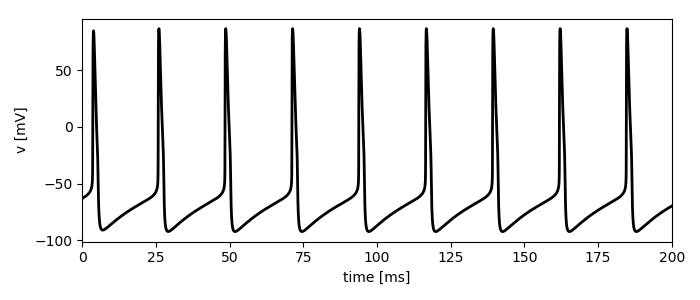
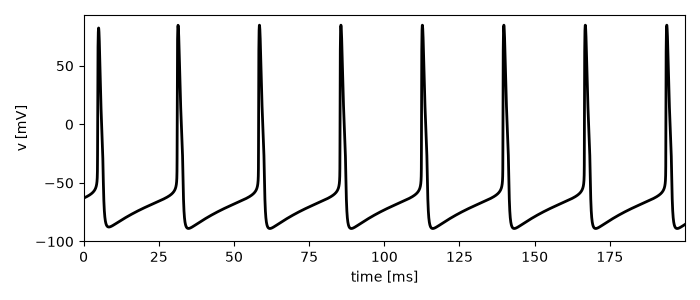
Port ch34 single-neuron sub-examples (Nested Gamma Theta Rhythms) to Brian2
brian/chapter34.ipynb covers PRE_OLM_VOLTAGE_TRACE and OLM_WITH_H_CURRENT
/OLM_WITH_H_AND_A_CURRENTS (one shared OLM-cell model with h/A currents
toggleable via g_h/g_A). A_CURRENT and PRE_OLM_X_INF_TAU_X are static
gating-curve plots -- marked n/a. EIO_1 and the two PING_WITH_THETA_*
sub-examples are much larger 40-50-neuron networks, left for later.

Fixed a real bug found while verifying PRE_OLM_VOLTAGE_TRACE against
MATLAB: python/34.../PRE_OLM_VOLTAGE_TRACE/lib.py's derivative() was
missing the /c division (c=1.3 here, unlike most other chapters where
c=1 makes the same omission invisible) -- caused every spike to arrive
~1.3x too early (9 spikes across 200ms instead of MATLAB's 8).

diff --git a/tests/test_ch34_pre_olm_voltage_trace.py b/tests/test_ch34_pre_olm_voltage_trace.py
@@ -1,0 +1,27 @@
+import sys
+from pathlib import Path
+
+from scipy.integrate import odeint
+
+from matlab_ref import load_python_port, run_matlab_script, trace_rmse
+
+ROOT = Path(__file__).resolve().parents[1]
+PYTHON_DIR = "34_Nested_Gamma_Theta_Rhythms/PRE_OLM_VOLTAGE_TRACE"
+MATLAB_DIR = "34/PRE_OLM_VOLTAGE_TRACE"
+
+
+def test_pre_olm_voltage_trace_matches_matlab():
+    sys.path.insert(0, str(ROOT / "python" / PYTHON_DIR))
+    try:
+        py = load_python_port(ROOT / "python" / PYTHON_DIR / "main.py")
+    finally:
+        sys.path.remove(str(ROOT / "python" / PYTHON_DIR))
+    v0 = -63.0
+    x0 = [v0, py.h_inf(v0), py.n_inf(v0)]
+    t = py.np.arange(0, py.t_final, py.dt)
+    v = odeint(py.derivative, x0, t)[:, 0]
+
+    ref = run_matlab_script(ROOT / "matlab" / MATLAB_DIR, "make_figure.m", ["t", "v"])
+
+    rmse = trace_rmse(ref["t"], ref["v"], t, v)
+    assert rmse < 1.0, f"RMSE vs MATLAB too high: {rmse:.2f} mV"

diff --git a/tests/test_ch34_brian_olm_with_h_current.py b/tests/test_ch34_brian_olm_with_h_current.py
@@ -1,0 +1,23 @@
+from pathlib import Path
+
+import numpy as np
+
+from matlab_ref import load_notebook_as_module, run_matlab_script, spike_times, trace_rmse
+
+ROOT = Path(__file__).resolve().parents[1]
+
+
+def test_olm_with_h_current_matches_matlab():
+    ns = load_notebook_as_module(ROOT / "brian" / "chapter34.ipynb")
+
+    ref = run_matlab_script(
+        ROOT / "matlab" / "34" / "OLM_WITH_H_CURRENT", "make_figure.m", ["t", "v", "r"]
+    )
+
+    rmse_r = trace_rmse(ref["t"], ref["r"], ns.sm_h.t / ns.b2.ms, ns.sm_h.r[0])
+    assert rmse_r < 0.001, f"r RMSE vs MATLAB too high: {rmse_r:.5f}"
+
+    spikes_test = spike_times(ns.sm_h.t / ns.b2.ms, ns.sm_h.vm[0] / ns.b2.mV, threshold=-20)
+    spikes_ref = spike_times(ref["t"], ref["v"], threshold=-20)
+    assert len(spikes_test) == len(spikes_ref) == 10
+    np.testing.assert_allclose(spikes_test, spikes_ref, atol=0.5)

diff --git a/tests/test_ch34_brian_olm_with_h_and_a_currents.py b/tests/test_ch34_brian_olm_with_h_and_a_currents.py
@@ -1,0 +1,20 @@
+from pathlib import Path
+
+from matlab_ref import load_notebook_as_module, run_matlab_script, trace_rmse
+
+ROOT = Path(__file__).resolve().parents[1]
+
+
+def test_olm_with_h_and_a_currents_matches_matlab():
+    ns = load_notebook_as_module(ROOT / "brian" / "chapter34.ipynb")
+
+    ref = run_matlab_script(
+        ROOT / "matlab" / "34" / "OLM_WITH_H_AND_A_CURRENTS", "make_figure.m", ["t", "v", "a", "b"]
+    )
+
+    rmse_v = trace_rmse(ref["t"], ref["v"], ns.sm_ha.t / ns.b2.ms, ns.sm_ha.vm[0] / ns.b2.mV)
+    rmse_ab = trace_rmse(
+        ref["t"], ref["a"] * ref["b"], ns.sm_ha.t / ns.b2.ms, ns.sm_ha.a[0] * ns.sm_ha.b[0]
+    )
+    assert rmse_v < 1.0, f"v RMSE vs MATLAB too high: {rmse_v:.2f} mV"
+    assert rmse_ab < 0.001, f"ab RMSE vs MATLAB too high: {rmse_ab:.5f}"

diff --git a/tests/test_ch34_brian_pre_olm_voltage_trace.py b/tests/test_ch34_brian_pre_olm_voltage_trace.py
@@ -1,0 +1,16 @@
+from pathlib import Path
+
+from matlab_ref import load_notebook_as_module, run_matlab_script, trace_rmse
+
+ROOT = Path(__file__).resolve().parents[1]
+
+
+def test_pre_olm_voltage_trace_matches_matlab():
+    ns = load_notebook_as_module(ROOT / "brian" / "chapter34.ipynb")
+
+    ref = run_matlab_script(
+        ROOT / "matlab" / "34" / "PRE_OLM_VOLTAGE_TRACE", "make_figure.m", ["t", "v"]
+    )
+
+    rmse = trace_rmse(ref["t"], ref["v"], ns.sm_pre.t / ns.b2.ms, ns.sm_pre.vm[0] / ns.b2.mV)
+    assert rmse < 1.0, f"v RMSE vs MATLAB too high: {rmse:.2f} mV"

diff --git a/python/34_Nested_Gamma_Theta_Rhythms/PRE_OLM_VOLTAGE_TRACE/lib.py b/python/34_Nested_Gamma_Theta_Rhythms/PRE_OLM_VOLTAGE_TRACE/lib.py
@@ -55,8 +55,8 @@ def tau_n(v):
 def derivative(x0, t):
     v, h, n = x0
     
-    dv = i_ext - g_na * h * m_inf(v) ** 3 * \
-        (v - v_na) - g_k * n ** 4 * (v - v_k) - g_l * (v - v_l)
+    dv = (i_ext - g_na * h * m_inf(v) ** 3 * \
+        (v - v_na) - g_k * n ** 4 * (v - v_k) - g_l * (v - v_l)) / c
     dn = alpha_n(v) * (1.0 - n) - beta_n(v) * n
     dh = alpha_h(v) * (1.0 - h) - beta_h(v) * h
 

diff --git a/PROGRESS.md b/PROGRESS.md
@@ -4,7 +4,7 @@ Unit of tracking is the MATLAB sub-example (one leaf folder = one figure/script)
 Process order: chapter number ascending, then sub-example name within a chapter.
 
 - [x] done and verified (visual + numeric vs MATLAB)
-**Totals: python 184/256 (72%). brian 36/256 (14%, +119 n/a).**
+**Totals: python 184/256 (72%). brian 39/256 (15%, +121 n/a).**
 
 - [ ] not done
 - n/a: sub-example is a static plot, its point is dynamical-systems analysis (bifurcation diagrams, phase planes with nullclines, F-I curves, bistability regions, ...), or it's a firing-rate/mean-field model (e.g. Wilson-Cowan) rather than individual spiking neurons -- even where it calls odeint internally, Brian2 (a spiking-network simulator) adds nothing over the existing Python port for these
@@ -383,14 +383,14 @@ Process order: chapter number ascending, then sub-example name within a chapter.
 
 | sub-example | python | brian |
 |---|---|---|
-| A_CURRENT | [x] | [ ] |
+| A_CURRENT | [x] | n/a |
 | EIO_1 | [x] | [ ] |
-| OLM_WITH_H_AND_A_CURRENTS | [x] | [ ] |
-| OLM_WITH_H_CURRENT | [x] | [ ] |
+| OLM_WITH_H_AND_A_CURRENTS | [x] | [x] |
+| OLM_WITH_H_CURRENT | [x] | [x] |
 | PING_WITH_THETA_DRIVE | [x] | [ ] |
 | PING_WITH_THETA_INHIBITION | [x] | [ ] |
-| PRE_OLM_VOLTAGE_TRACE | [x] | [ ] |
-| PRE_OLM_X_INF_TAU_X | [x] | [ ] |
+| PRE_OLM_VOLTAGE_TRACE | [x] | [x] |
+| PRE_OLM_X_INF_TAU_X | [x] | n/a |
 
 ## Chapter 35
 
